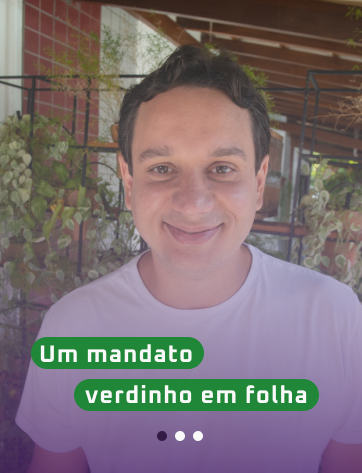
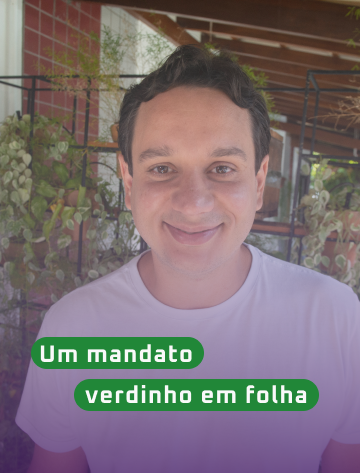
feat: add pager on slide in page 'home'

diff --git a/src/app/home/home.page.html b/src/app/home/home.page.html
@@ -45,7 +45,7 @@
     </div>
   </nav>
   <!-- slides -->
-  <ion-slides class="component-background component-space-nav" pager="false" [options]="slideOpts">
+  <ion-slides class="component-background component-space-nav" pager="true" [options]="slideOpts">
     <ion-slide>
       <img class="d-block w-100" src="../../assets/card1.png" alt="First slide">
     </ion-slide>

diff --git a/src/global.scss b/src/global.scss
@@ -314,3 +314,9 @@ ion-content {
     text-align: center;
     display: block !important;
 }
+
+.swiper-pagination-fraction, .swiper-pagination-custom, .swiper-container-horizontal>.swiper-pagination-bullets {
+    bottom: 25px !important;
+    left: 0;
+    width: 100%;
+}
